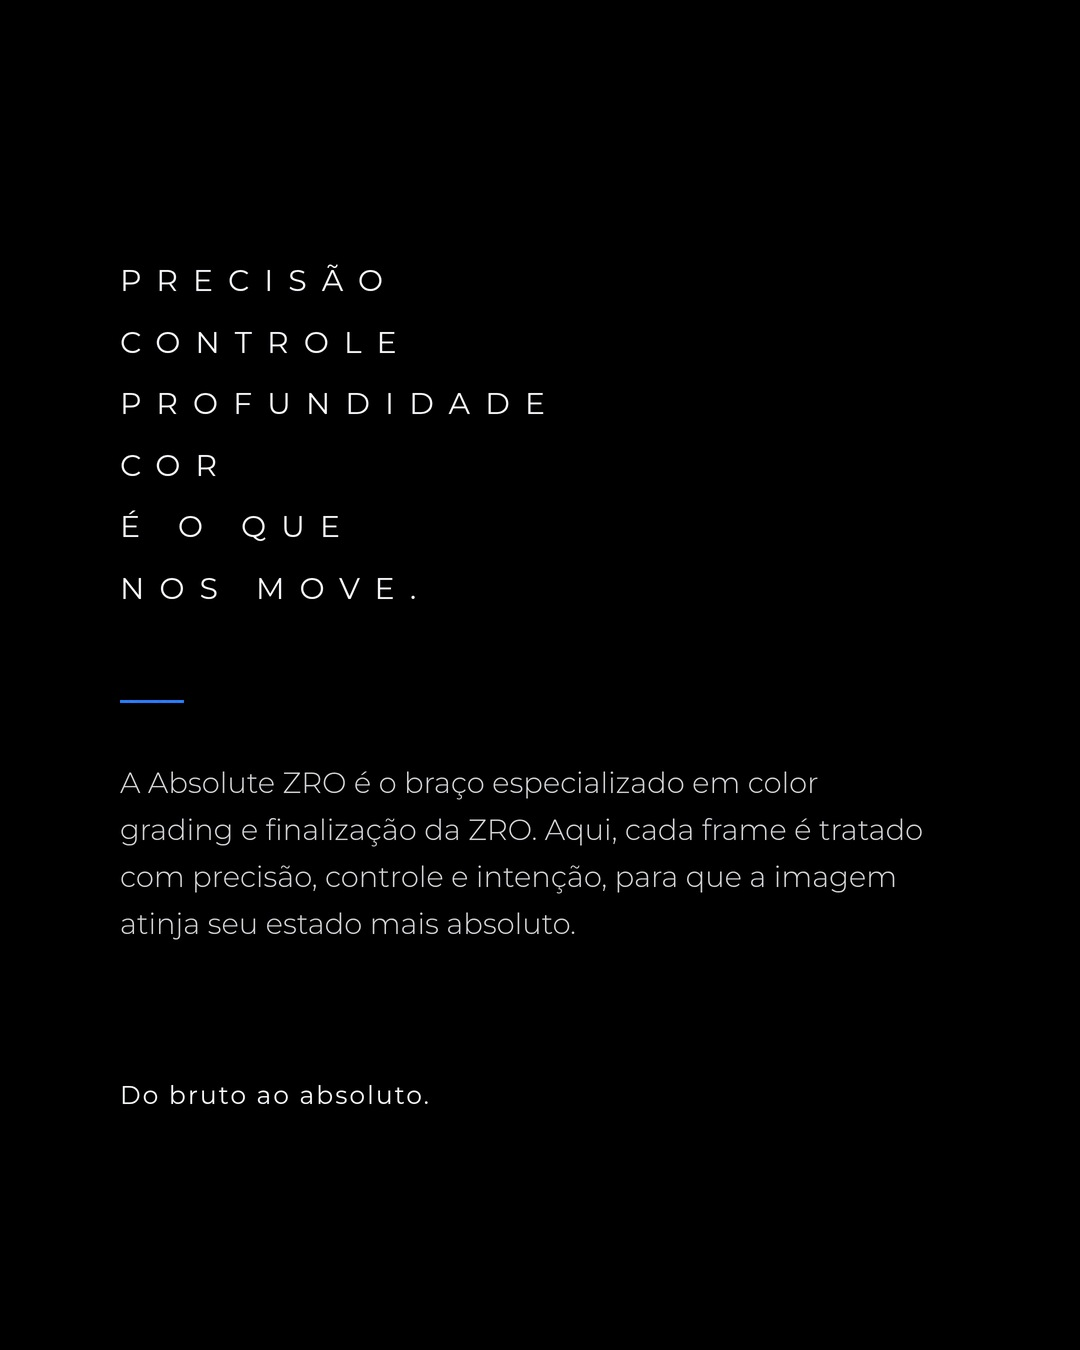
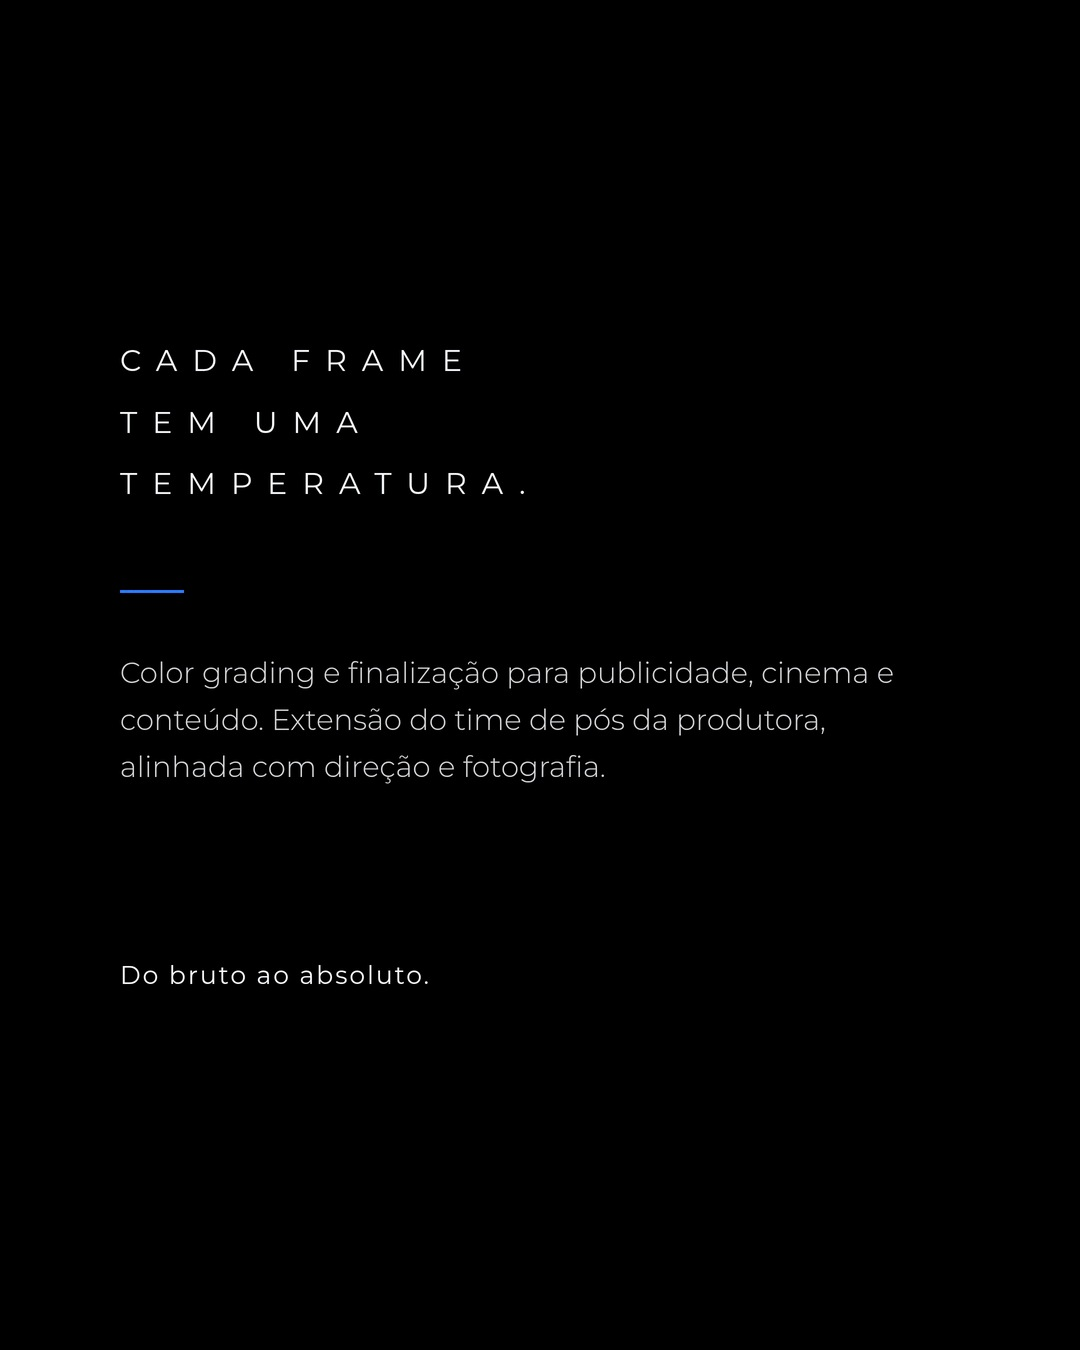
Tom de casa de cor high-end no site e nos 3 posts da Absolute
Página da Absolute e slides com o texto base: quem é, serviços no inglês
do mercado, o caminho do bruto à entrega e Agenda aberta. Post 2 vira o
anel com 0 K, sem slides de manual.

Claude-Session: https://claude.ai/code/session_01Kr6LwSCe6NP69VxRAVy4DF

diff --git a/src/app/(site)/absolute/page.tsx b/src/app/(site)/absolute/page.tsx
@@ -12,7 +12,7 @@ import { cn } from "@/lib/utils";
 
 export const metadata: Metadata = {
   title: "Absolute ZRO",
-  description: "Do bruto ao absoluto. Color grading, finalização de imagem e construção de look.",
+  description: "Color grading e finalização para publicidade, cinema e conteúdo. Do bruto ao absoluto.",
 };
 
 /*
@@ -22,12 +22,12 @@ export const metadata: Metadata = {
  * a página não mostra nada que a ZRO não tenha de verdade.
  */
 
+/* Texto base em docs/marca/absolute-texto.md: casa de cor high-end, rótulos no inglês do mercado, sem nome de pessoa. */
 const SERVICES = [
-  { title: "Color grading", text: "A cor como decisão: cada tom a serviço da narrativa." },
-  { title: "Finalização de imagem", text: "Limpeza, estabilização, ajustes finos e masterização." },
-  { title: "Acabamento", text: "Os detalhes que separam o bom do absoluto." },
-  { title: "Construção de look", text: "Uma linguagem visual própria para o seu filme ou marca." },
-  { title: "Pós para produtoras", text: "Uma extensão técnica e estética do seu time." },
+  { title: "Color grading", text: "Balanço, match entre planos e tratamento de pele." },
+  { title: "Look development", text: "O look do projeto, construído com direção e fotografia." },
+  { title: "Finishing", text: "Limpeza, estabilização e ajustes finos." },
+  { title: "Mastering", text: "Master final e versões de entrega." },
 ];
 
 const VERBS = [
@@ -38,11 +38,11 @@ const VERBS = [
   ["Conta.", "Aperfeiçoa."],
 ];
 
-/* Os três símbolos como o caminho da imagem: do bruto ao estado final. */
+/* Os três símbolos como o caminho do material: do bruto à entrega. */
 const STEPS = [
-  { name: "Eclipse", sub: "Mistério / origem", step: "O bruto", Icon: AbsoluteEclipse },
-  { name: "Lente", sub: "Precisão / controle", step: "O grading", Icon: AbsoluteLens },
-  { name: "Absolute ring", sub: "Estado final", step: "A entrega", Icon: AbsoluteSymbol },
+  { name: "O bruto", sub: "LOG · RAW", Icon: AbsoluteEclipse },
+  { name: "O grading", sub: "Balanço · match · pele · look", Icon: AbsoluteLens },
+  { name: "A entrega", sub: "Master · versões", Icon: AbsoluteSymbol },
 ];
 
 /** Rótulo do board: caixa alta, Montserrat, bem espaçado. */
@@ -65,7 +65,7 @@ export default function AbsolutePage() {
       <div className="mx-auto max-w-[1600px] px-3 sm:px-5">
         {/* Board: fios de 1px entre os painéis */}
         <div className="grid gap-px border border-white/10 bg-white/10">
-          {/* Linha 1: logo · eclipse · o que nos move */}
+          {/* Linha 1: logo · eclipse · quem é */}
           <div className="grid gap-px bg-white/10 lg:grid-cols-[minmax(0,60fr)_minmax(0,20fr)_minmax(0,20fr)]">
             <Panel className="grid min-h-[420px] place-content-center justify-items-center gap-7 px-6 py-20 text-center lg:min-h-[520px]">
               <Reveal>
@@ -99,21 +99,16 @@ export default function AbsolutePage() {
               </Panel>
               <Panel className="grid content-center px-6 py-10 sm:px-9">
                 <Tag className="leading-[2.3]">
-                  Precisão
+                  Cada frame
                   <br />
-                  Controle
+                  tem uma
                   <br />
-                  Profundidade
-                  <br />
-                  Cor
-                  <br />é o que
-                  <br />
-                  nos move.
+                  temperatura.
                 </Tag>
                 <span className="my-7 block h-px w-9 bg-abs-blue" aria-hidden />
                 <p className="text-[13px] leading-[1.8] font-light text-abs-ice/85">
-                  A Absolute ZRO é o braço especializado em color grading e finalização da ZRO. Aqui, cada frame é tratado com
-                  precisão, controle e intenção, para que a imagem atinja seu estado mais absoluto.
+                  Color grading e finalização para publicidade, cinema e conteúdo. Extensão do time de pós da produtora, alinhada com
+                  direção e fotografia.
                 </p>
                 <p className="mt-6 text-[12px] tracking-[0.08em] text-abs-ice">Do bruto ao absoluto.</p>
               </Panel>
@@ -124,15 +119,14 @@ export default function AbsolutePage() {
           <Panel className="px-6 py-10 sm:px-9">
             <Tag>Do bruto ao absoluto</Tag>
             <ol className="mt-8 grid gap-px bg-white/10 sm:grid-cols-3">
-              {STEPS.map(({ name, sub, step, Icon }, i) => (
+              {STEPS.map(({ name, sub, Icon }, i) => (
                 <Reveal as="li" key={name} delay={i * 0.08} className="grid justify-items-center gap-4 bg-black px-4 py-10 text-center">
                   <Icon className="size-28 sm:size-36" />
-                  <p className="text-[11px] tracking-[0.42em] text-abs-ice uppercase">{name}</p>
-                  <p className="text-[10px] tracking-[0.35em] text-abs-ice/55 uppercase">{sub}</p>
-                  <p className="mt-2 text-[13px] font-light text-abs-ice/80">
-                    <span className="mr-2 font-mono text-[11px] text-abs-blue">0{i + 1}</span>
-                    {step}
+                  <p className="text-[11px] tracking-[0.42em] text-abs-ice uppercase">
+                    <span className="mr-2 font-mono tracking-normal text-abs-blue">0{i + 1}</span>
+                    {name}
                   </p>
+                  <p className="text-[10px] tracking-[0.35em] text-abs-ice/55 uppercase">{sub}</p>
                 </Reveal>
               ))}
             </ol>
@@ -175,14 +169,14 @@ export default function AbsolutePage() {
 
           {/* Frames finalizados: trabalho real da ZRO */}
           <Panel className="px-6 pt-10 pb-6 sm:px-9">
-            <Tag>A imagem em seu estado absoluto</Tag>
+            <Tag>Frames</Tag>
           </Panel>
           <FramesMosaic frames={FRAMES} variant="board" />
 
           {/* Linha 5: o que fazemos · ZRO × Absolute */}
           <div className="grid gap-px bg-white/10 lg:grid-cols-2">
             <Panel className="px-6 py-10 sm:px-9">
-              <Tag>O que fazemos</Tag>
+              <Tag>Serviços</Tag>
               <ul className="mt-6">
                 {SERVICES.map((s, i) => (
                   <Reveal as="li" key={s.title} delay={i * 0.05} className="grid gap-1 border-b border-white/10 py-5 last:border-b-0 sm:grid-cols-[48px_1fr]">
@@ -229,13 +223,13 @@ export default function AbsolutePage() {
             <Panel className="grid content-center justify-items-start gap-8 px-6 py-16 sm:px-12">
               <AbsoluteSymbol className="size-20" />
               <p className="max-w-md text-[clamp(28px,3.4vw,48px)] leading-[1.1] font-light tracking-[-0.01em] text-abs-ice">
-                Color como <span className="text-abs-blue">decisão</span>.
+                Agenda <span className="text-abs-blue">aberta</span>.
               </p>
               <Link
                 href="/orcamento?tipo=finalizacao"
                 className="group inline-flex h-12 items-center gap-4 rounded-full bg-abs-ice pr-1.5 pl-6 text-[14px] font-medium text-abs-deep transition-colors hover:bg-white"
               >
-                Enviar um projeto para finalizar
+                Enviar um projeto
                 <span className="grid size-9 place-items-center rounded-full bg-abs-deep text-abs-ice transition-transform duration-500 ease-out-expo group-hover:rotate-45">
                   <ArrowUpRight className="size-4" aria-hidden />
                 </span>

diff --git a/docs/marca/absolute-texto.md b/docs/marca/absolute-texto.md
@@ -82,7 +82,7 @@ Advertising · Film · Content
 Natal, BR · by @zrofilmes
 ```
 
-**Post 1: A ZRO apresenta**
+**Post 1: A ZRO apresenta** (3 slides: eclipse com "A ZRO apresenta" e o logo · logo e "Do bruto ao absoluto." · manifesto com "Cada frame tem uma temperatura." e a linha de quem é)
 
 ```
 A ZRO apresenta Absolute ZRO.
@@ -92,7 +92,7 @@ Color grading e finalização para publicidade, cinema e conteúdo.
 Do bruto ao absoluto.
 ```
 
-**Post 2: identidade**
+**Post 2: 0 K** (1 slide: o anel com "0 K" e "Zero absoluto.")
 
 ```
 Cada frame tem uma temperatura.
@@ -100,7 +100,7 @@ Cada frame tem uma temperatura.
 A nossa começa no zero absoluto: 0 K.
 ```
 
-**Post 3: Do bruto ao absoluto**
+**Post 3: Do bruto ao absoluto** (2 slides: paisagem com o feixe e o logo · "Agenda aberta." com os serviços)
 
 ```
 Do bruto ao absoluto.
